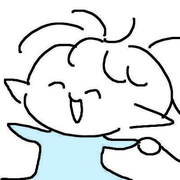
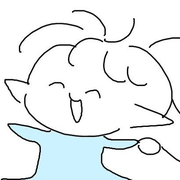
메모 흰색·폴더 노란색, 새 메모는 저장 시에만 생성, 사진 끌어서 좌/중/우 배치와 옆 글쓰기, 파비콘 원본 사용
- 빈 곳 클릭/+메모는 초안 편집창만 열고 저장할 때 생성, 바깥 클릭 시 그냥 닫힘
- 사진: 끌어 놓은 줄과 편집창 좌·중·우 구역으로 배치, 좌/우는 글이 옆으로 흐름
- 파비콘: 원본 그림을 그대로 축소

Claude-Session: https://claude.ai/code/session_01Xp9tCMPE69BxcVz7zifjbp

diff --git a/public/memos.js b/public/memos.js
@@ -88,10 +88,11 @@
   function plainText(html){const div=document.createElement('div');div.appendChild(safeContent(html));return div.textContent;}
   function openFolder(item){folderId=item.id;render();}
   byId('memoBack').addEventListener('click',()=>{folderId=null;render();});
-  async function create(){
-    if(!isOwner||busy)return;busy=true;
-    try{const {id}=await api({action:'create',folder_id:folderId});await window.loadMemoBoard();const item=items.find(i=>i.id===id);if(item)openEditor(item);}
-    catch(error){status(error.message);}finally{busy=false;}
+  // A new memo is only a draft in the editor; it is stored when 저장 is pressed, so closing it
+  // (clicking outside, ×, Esc) without saving leaves nothing behind.
+  function create(){
+    if(!isOwner||busy||editing)return;
+    openEditor({id:null,kind:'note',title:'',content:'',folder_id:folderId});
   }
   byId('newMemoButton').addEventListener('click',()=>create());
   // Clicking any empty part of the memo tab (not a card, button, field or text) adds a memo.
@@ -201,6 +202,8 @@
     if(!range&&document.caretPositionFromPoint){const p=document.caretPositionFromPoint(x,y);if(p){range=document.createRange();range.setStart(p.offsetNode,p.offset);range.collapse(true);}}
     return range&&editor.contains(range.startContainer)?range:null;
   };
+  // Left/right third of the editor = photo on that side with text beside it; middle = centred on its own line.
+  const sideAt=x=>{const r=editor.getBoundingClientRect(),t=(x-r.left)/r.width;return t<1/3?'left':t>2/3?'right':'center';};
   editor.addEventListener('dragstart',event=>{if(event.target.tagName==='IMG')event.preventDefault();});
   editor.addEventListener('pointermove',event=>{
     if(event.target.tagName==='IMG'&&!event.buttons)event.target.style.cursor=event.target===selectedImg&&nearEdge(event.target,event.clientX)?'ew-resize':'move';
@@ -218,16 +221,17 @@
     const move=e=>{
       if(resize){applyImage(Math.max(10,Math.min(100,Math.round((e.clientX-left)/full*100))));return;}
       if(!moved&&Math.hypot(e.clientX-startX,e.clientY-startY)<8)return;
-      moved=true;img.classList.add('memo-img-moving');
+      moved=true;img.classList.add('memo-img-moving');editor.dataset.dropSide=sideAt(e.clientX);
       const range=caretAt(e.clientX,e.clientY);   // show where the photo will land
       if(range){const sel=window.getSelection();sel.removeAllRanges();sel.addRange(range);}
     };
     const done=(e,drop)=>{
       img.removeEventListener('pointermove',move);img.removeEventListener('pointerup',up);img.removeEventListener('pointercancel',cancel);
-      img.classList.remove('memo-img-moving');
+      img.classList.remove('memo-img-moving');delete editor.dataset.dropSide;
       if(!drop||resize||!moved)return;
       const range=caretAt(e.clientX,e.clientY);
-      if(range&&!img.contains(range.startContainer)){img.remove();insertNode(img,range);selectImage(img);}
+      if(range&&!img.contains(range.startContainer)){img.remove();insertNode(img,range);}
+      applyImage(undefined,sideAt(e.clientX));selectImage(img);
     };
     const up=e=>done(e,true),cancel=e=>done(e,false);
     img.addEventListener('pointermove',move);img.addEventListener('pointerup',up);img.addEventListener('pointercancel',cancel);
@@ -246,11 +250,15 @@
   byId('memoClose').addEventListener('click',()=>closeEditor());
   byId('memoSave').addEventListener('click',async()=>{
     if(!editing||uploading||busy)return;busy=true;byId('memoSave').disabled=true;
-    try{await api({action:'save',id:editing.id,title:byId('memoTitle').value,content:contentHTML()});busy=false;closeEditor(true);await window.loadMemoBoard();status('메모를 저장했어요.');}
+    try{
+      if(!editing.id)editing.id=(await api({action:'create',folder_id:editing.folder_id}))?.id;
+      await api({action:'save',id:editing.id,title:byId('memoTitle').value,content:contentHTML()});busy=false;closeEditor(true);await window.loadMemoBoard();status('메모를 저장했어요.');}
     catch(error){status(error.message,true);}finally{busy=false;byId('memoSave').disabled=false;}
   });
   byId('memoDelete').addEventListener('click',async()=>{
-    if(!editing||busy||uploading||!window.confirm('이 메모를 삭제할까요?'))return;
+    if(!editing||busy||uploading)return;
+    if(!editing.id){closeEditor(true);return;}   // unsaved draft: nothing stored yet
+    if(!window.confirm('이 메모를 삭제할까요?'))return;
     busy=true;try{await api({action:'delete',id:editing.id});busy=false;closeEditor(true);await window.loadMemoBoard();}catch(error){status(error.message,true);}finally{busy=false;}
   });
   modal.addEventListener('click',event=>{if(event.target===modal)closeEditor();});

diff --git a/public/style.css b/public/style.css
@@ -2338,15 +2338,14 @@ textarea {
 #memosPage {cursor:copy}
 #memosPage .page-heading,#memosPage .memo-toolbar > * {cursor:auto}
 .memo-empty-hint {grid-column:1/-1;padding:16px 10px;color:#a28593;font-size:14px;pointer-events:none}
-.memo-card {position:relative;box-sizing:border-box;height:254px;border:1px solid #f0d8e2;border-radius:5px 5px 16px 5px;background:#fff1f5;box-shadow:2px 5px 12px #b38b9a19;cursor:default;overflow:hidden;display:flex;flex-direction:column}
-.memo-card:nth-of-type(even) {background:#eff8ff;border-color:#d4e6f3}
+.memo-card {position:relative;box-sizing:border-box;height:254px;border:1px solid #ebe1e6;border-radius:5px 5px 16px 5px;background:#fff;box-shadow:2px 5px 12px #b38b9a19;cursor:default;overflow:hidden;display:flex;flex-direction:column}
 .memo-card-header {display:flex;align-items:center;gap:5px;padding:10px 10px 7px;border-bottom:1px solid #bb94a222;min-height:40px}
 .memo-drag-handle {border:0;background:none;color:#a58a97;font-size:22px;padding:0 5px;cursor:grab;touch-action:none;flex-shrink:0}
 .memo-card-title {border:0;background:none;min-width:0;overflow:hidden;white-space:nowrap;text-overflow:ellipsis;text-align:left;font-weight:650;color:#765967;font-size:14px;cursor:pointer}
 .memo-preview {padding:12px 16px;font-size:13px;line-height:1.65;white-space:pre-wrap;overflow:hidden;flex:1;color:#735d69;cursor:pointer;overflow-wrap:anywhere}
 .memo-preview p {margin:3px 0 9px}
 .memo-preview img {max-width:100%;max-height:135px;object-fit:contain;border-radius:6px;display:block;margin:7px 0}
-.memo-folder {background:#f8f3e5!important;border-color:#e7d9b5!important}
+.memo-folder {background:#fff5c9!important;border-color:#f0d985!important}
 .memo-card-actions {display:flex;gap:8px;padding:5px 12px;min-height:28px}
 .memo-small-button {border:0;background:transparent;color:#977487;font-size:11px;cursor:pointer;text-decoration:underline}
 .memo-dragging {z-index:30;opacity:.85;box-shadow:0 12px 25px #996b8533;pointer-events:none}
@@ -2363,8 +2362,13 @@ textarea {
 .memo-editor img.memo-img-selected {touch-action:none}
 .memo-editor img.memo-img-moving {opacity:.45;pointer-events:none}
 .memo-editor img.memo-img-selected {outline:3px solid #de91af;outline-offset:2px;box-shadow:6px 0 0 -1px #de91af}
-.memo-editor img[data-align=center],.memo-preview img[data-align=center] {margin-left:auto;margin-right:auto}
-.memo-editor img[data-align=right],.memo-preview img[data-align=right] {margin-left:auto;margin-right:0}
+.memo-editor img,.memo-preview img {float:left;margin:4px 14px 8px 0}
+.memo-editor img[data-align=right],.memo-preview img[data-align=right] {float:right;margin:4px 0 8px 14px}
+.memo-editor img[data-align=center],.memo-preview img[data-align=center] {float:none;display:block;margin:12px auto}
+.memo-editor[data-drop-side=left] {background:linear-gradient(90deg,#fcebf2 0 33.3%,#fff 33.3%)}
+.memo-editor[data-drop-side=center] {background:linear-gradient(90deg,#fff 33.3%,#fcebf2 33.3% 66.6%,#fff 66.6%)}
+.memo-editor[data-drop-side=right] {background:linear-gradient(90deg,#fff 66.6%,#fcebf2 66.6%)}
+.memo-image-hint {flex-basis:100%;color:#a88b98}
 .memo-image-tools {display:flex;align-items:center;flex-wrap:wrap;gap:8px 10px;padding:8px 12px;border:1px solid #f0d8e2;border-radius:10px;background:#fff7fa;font-size:12px;color:#8e6d7d}
 .memo-image-tools input[type=range] {width:140px;accent-color:#d77fa1}
 #memoImageSizeLabel {min-width:34px}

diff --git a/public/index.html b/public/index.html
@@ -238,6 +238,7 @@
         <label for="memoImageSize">사진 크기</label><input id="memoImageSize" type="range" min="10" max="100" step="5" value="100"><span id="memoImageSizeLabel">100%</span>
         <span class="memo-image-align"><button type="button" data-align="left" aria-pressed="true">왼쪽</button><button type="button" data-align="center" aria-pressed="false">가운데</button><button type="button" data-align="right" aria-pressed="false">오른쪽</button></span>
         <button id="memoImageRemove" type="button" class="memo-image-remove">사진 삭제</button>
+        <span class="memo-image-hint">사진을 끌어 원하는 줄의 왼쪽·가운데·오른쪽에 놓을 수 있어요. 왼쪽·오른쪽에 두면 옆 빈 곳에 글을 쓸 수 있어요.</span>
       </div>
       <div id="memoEditor" class="memo-editor" contenteditable="true" role="textbox" aria-label="메모 내용" aria-multiline="true" data-placeholder="생각을 자유롭게 적어보세요…"></div>
       <p id="memoEditorStatus" role="status" aria-live="polite"></p>

diff --git a/PATCH_NOTES.md b/PATCH_NOTES.md
@@ -82,4 +82,11 @@ Access settings의 global session duration도 확인하세요. 이는 팀의 다
 
 ## 파비콘
 
-- 직접 그린 그림으로 사이트 파비콘을 추가했습니다. 브라우저 탭용 `favicon.ico`(16·32·48px)와 `favicon-32.png`, 아이폰 홈 화면용 `apple-touch-icon.png`(180px), 안드로이드 홈 화면용 `icon-192.png`·`icon-512.png`와 `manifest.webmanifest`를 넣었습니다. 작은 크기는 얼굴 부분만 잘라 선을 굵게 해 알아보기 쉽게 했습니다.
+- 직접 그린 그림으로 사이트 파비콘을 추가했습니다. 브라우저 탭용 `favicon.ico`(16·32·48px)와 `favicon-32.png`, 아이폰 홈 화면용 `apple-touch-icon.png`(180px), 안드로이드 홈 화면용 `icon-192.png`·`icon-512.png`와 `manifest.webmanifest`를 넣었습니다. 원본 그림을 자르거나 고치지 않고 크기만 줄여 사용합니다.
+
+## 메모 색, 새 메모 초안, 사진 배치
+
+- 메모 카드는 모두 흰색, 폴더는 모두 노란색으로 통일했습니다(번갈아 나오던 분홍/파랑 제거).
+- 빈 곳 클릭이나 '+ 메모'는 이제 **초안 편집창**만 엽니다. **저장**을 눌러야 메모가 만들어지고, 편집창 바깥을 누르거나 ×/Esc로 닫으면 아무것도 남지 않습니다. 초안에서 '삭제'는 그냥 닫기입니다.
+- 사진을 끌어 **원하는 줄**에 놓을 수 있고, 편집창의 **왼쪽·가운데·오른쪽 3분의 1** 중 놓은 곳에 따라 자리가 정해집니다(끄는 동안 해당 구역이 분홍색으로 표시됩니다). 왼쪽·오른쪽에 둔 사진은 글이 옆으로 흘러, 사진 옆 빈 곳에도 글을 쓸 수 있습니다. 가운데는 사진만 한 줄을 차지합니다. 위치 버튼도 그대로 쓸 수 있습니다.
+- 파비콘은 원본 그림을 그대로 크기만 줄여 다시 만들었습니다(선 굵게 하기·자르기 제거).
